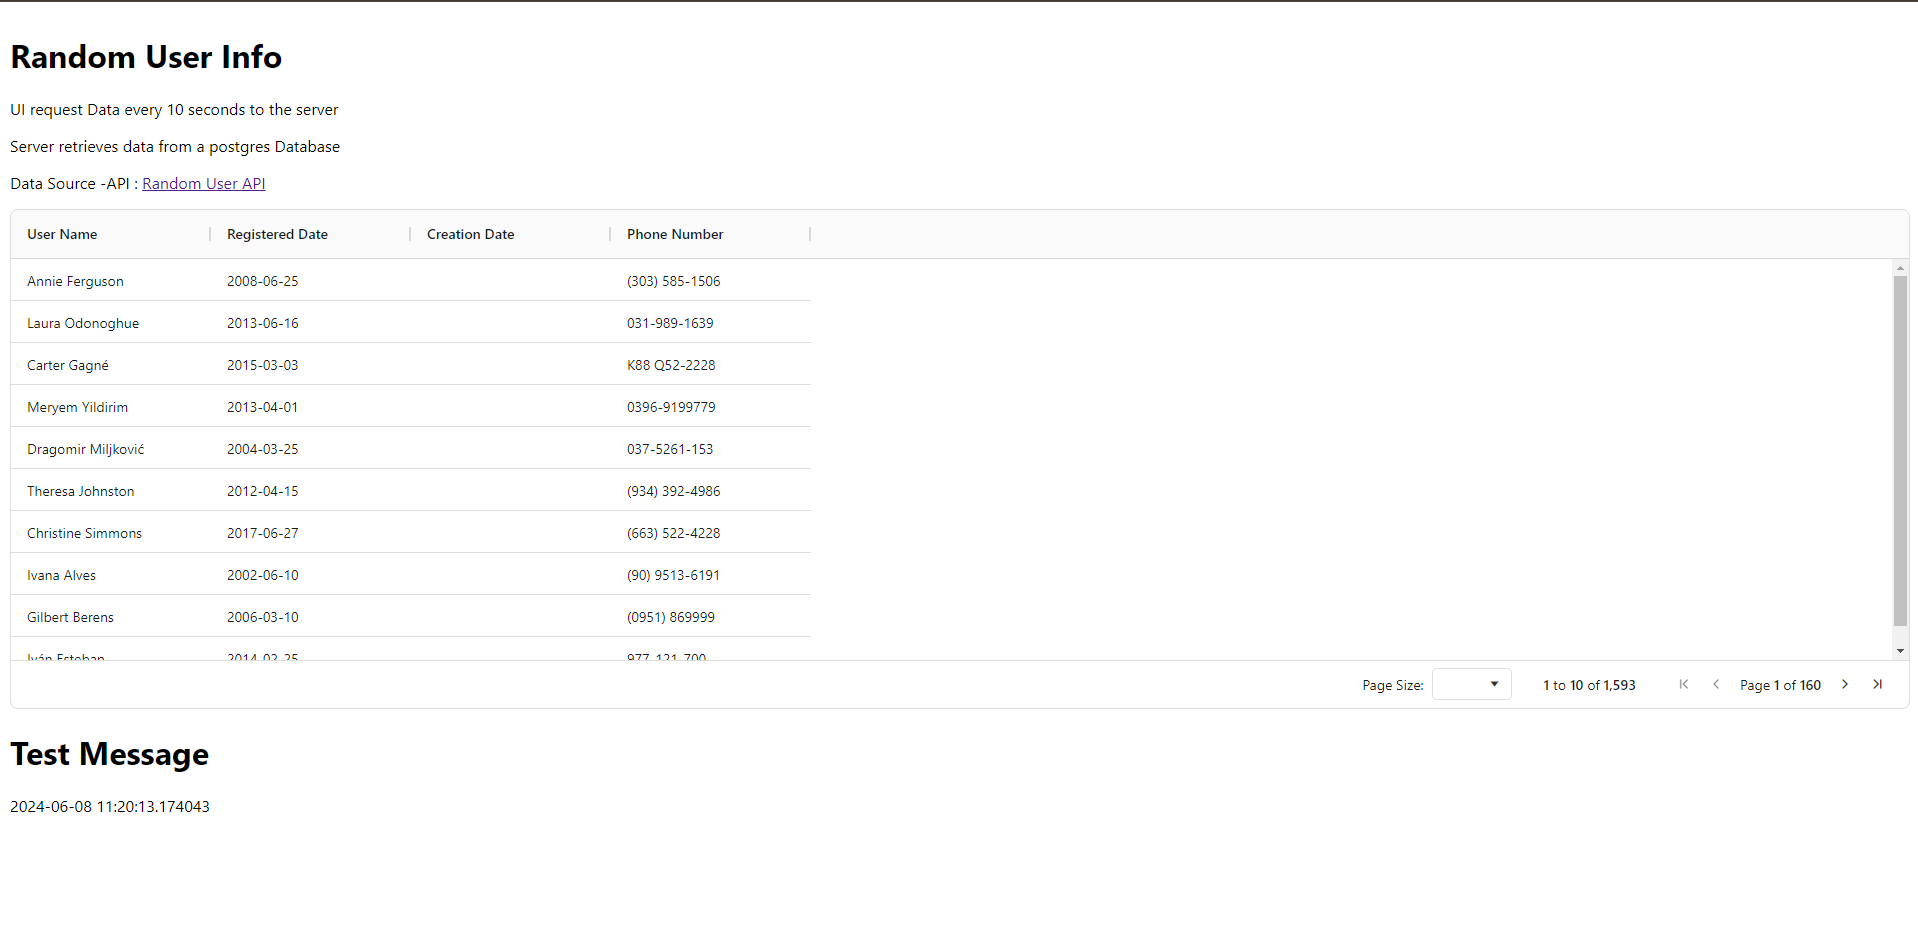
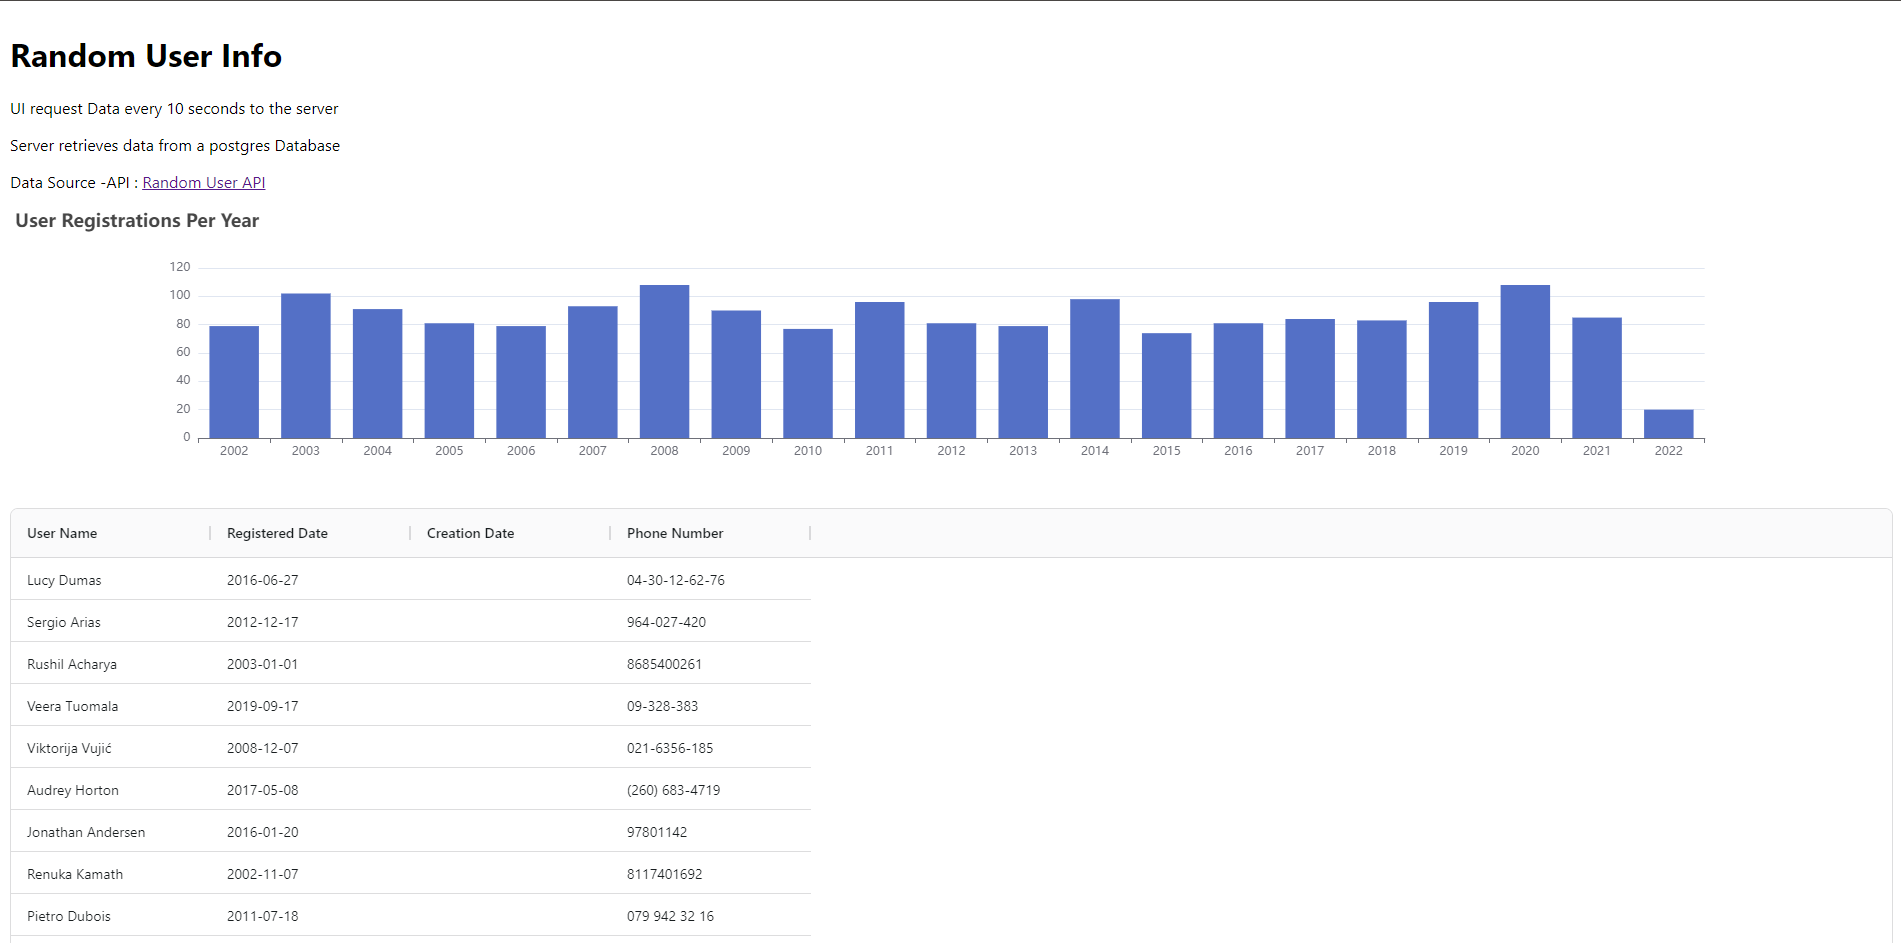
Updated UI Image and add datazoom to Bar chart

diff --git a/frontend/my-app/src/App.js b/frontend/my-app/src/App.js
@@ -45,6 +45,16 @@ function App() {
         type: "bar",
       },
     ],
+    dataZoom: [
+      {
+        type: "inside",
+        start: 0,
+        end: 100,
+        zoomOnMouseWheel: true,
+        moveOnMouseMove: true,
+        preventDefaultMouseMove: false,
+      },
+    ],
   };
 
   useEffect(() => {
